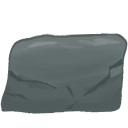
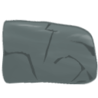
box assets

diff --git a/Output/src/Map.cpp b/Output/src/Map.cpp
@@ -517,28 +517,6 @@ bool Map::Load(std::string path, std::string fileName)
                     wall->SetParameters(node);
                 }
             }
-            else if (objectGroupName == "PushableBoxes")
-            {
-                for (pugi::xml_node objectNode = objectGroupNode.child("object"); objectNode; objectNode = objectNode.next_sibling("object"))
-                {
-                    int x = objectNode.attribute("x").as_int();
-                    int y = objectNode.attribute("y").as_int();
-                    int width = objectNode.attribute("width").as_int();
-                    int height = objectNode.attribute("height").as_int();
-                    std::string texturePath = objectNode.attribute("texture").as_string();
-
-                    pugi::xml_document tempDoc;
-                    pugi::xml_node node = tempDoc.append_child("box");
-                    node.append_attribute("x") = x;
-                    node.append_attribute("y") = y;
-                    node.append_attribute("w") = width;
-                    node.append_attribute("h") = height;
-                    node.append_attribute("texture") = texturePath.c_str();
-
-                    PushableBox* box = (PushableBox*)Engine::GetInstance().entityManager->CreateEntity(EntityType::PUSHABLE_BOX);
-                    box->SetParameters(node);
-                }
-            }
             else if (objectGroupName == "HookableBoxes")
             {
                 for (pugi::xml_node objectNode = objectGroupNode.child("object"); objectNode; objectNode = objectNode.next_sibling("object"))
@@ -616,9 +594,8 @@ bool Map::Load(std::string path, std::string fileName)
                     {
                         int x = objectNode.attribute("x").as_int();
                         int y = objectNode.attribute("y").as_int();
-                        int width = objectNode.attribute("width").as_int();
-                        int height = objectNode.attribute("height").as_int();
-                        std::string texturePath = objectNode.attribute("texture").as_string();
+                        int width = 90;
+                        int height = 64;
 
                         pugi::xml_document tempDoc;
                         pugi::xml_node node = tempDoc.append_child("box");
@@ -626,7 +603,6 @@ bool Map::Load(std::string path, std::string fileName)
                         node.append_attribute("y") = y;
                         node.append_attribute("w") = width;
                         node.append_attribute("h") = height;
-                        node.append_attribute("texture") = texturePath.c_str();
 
                         PushableBox* box = (PushableBox*)Engine::GetInstance().entityManager->CreateEntity(EntityType::PUSHABLE_BOX);
                         box->SetParameters(node);
